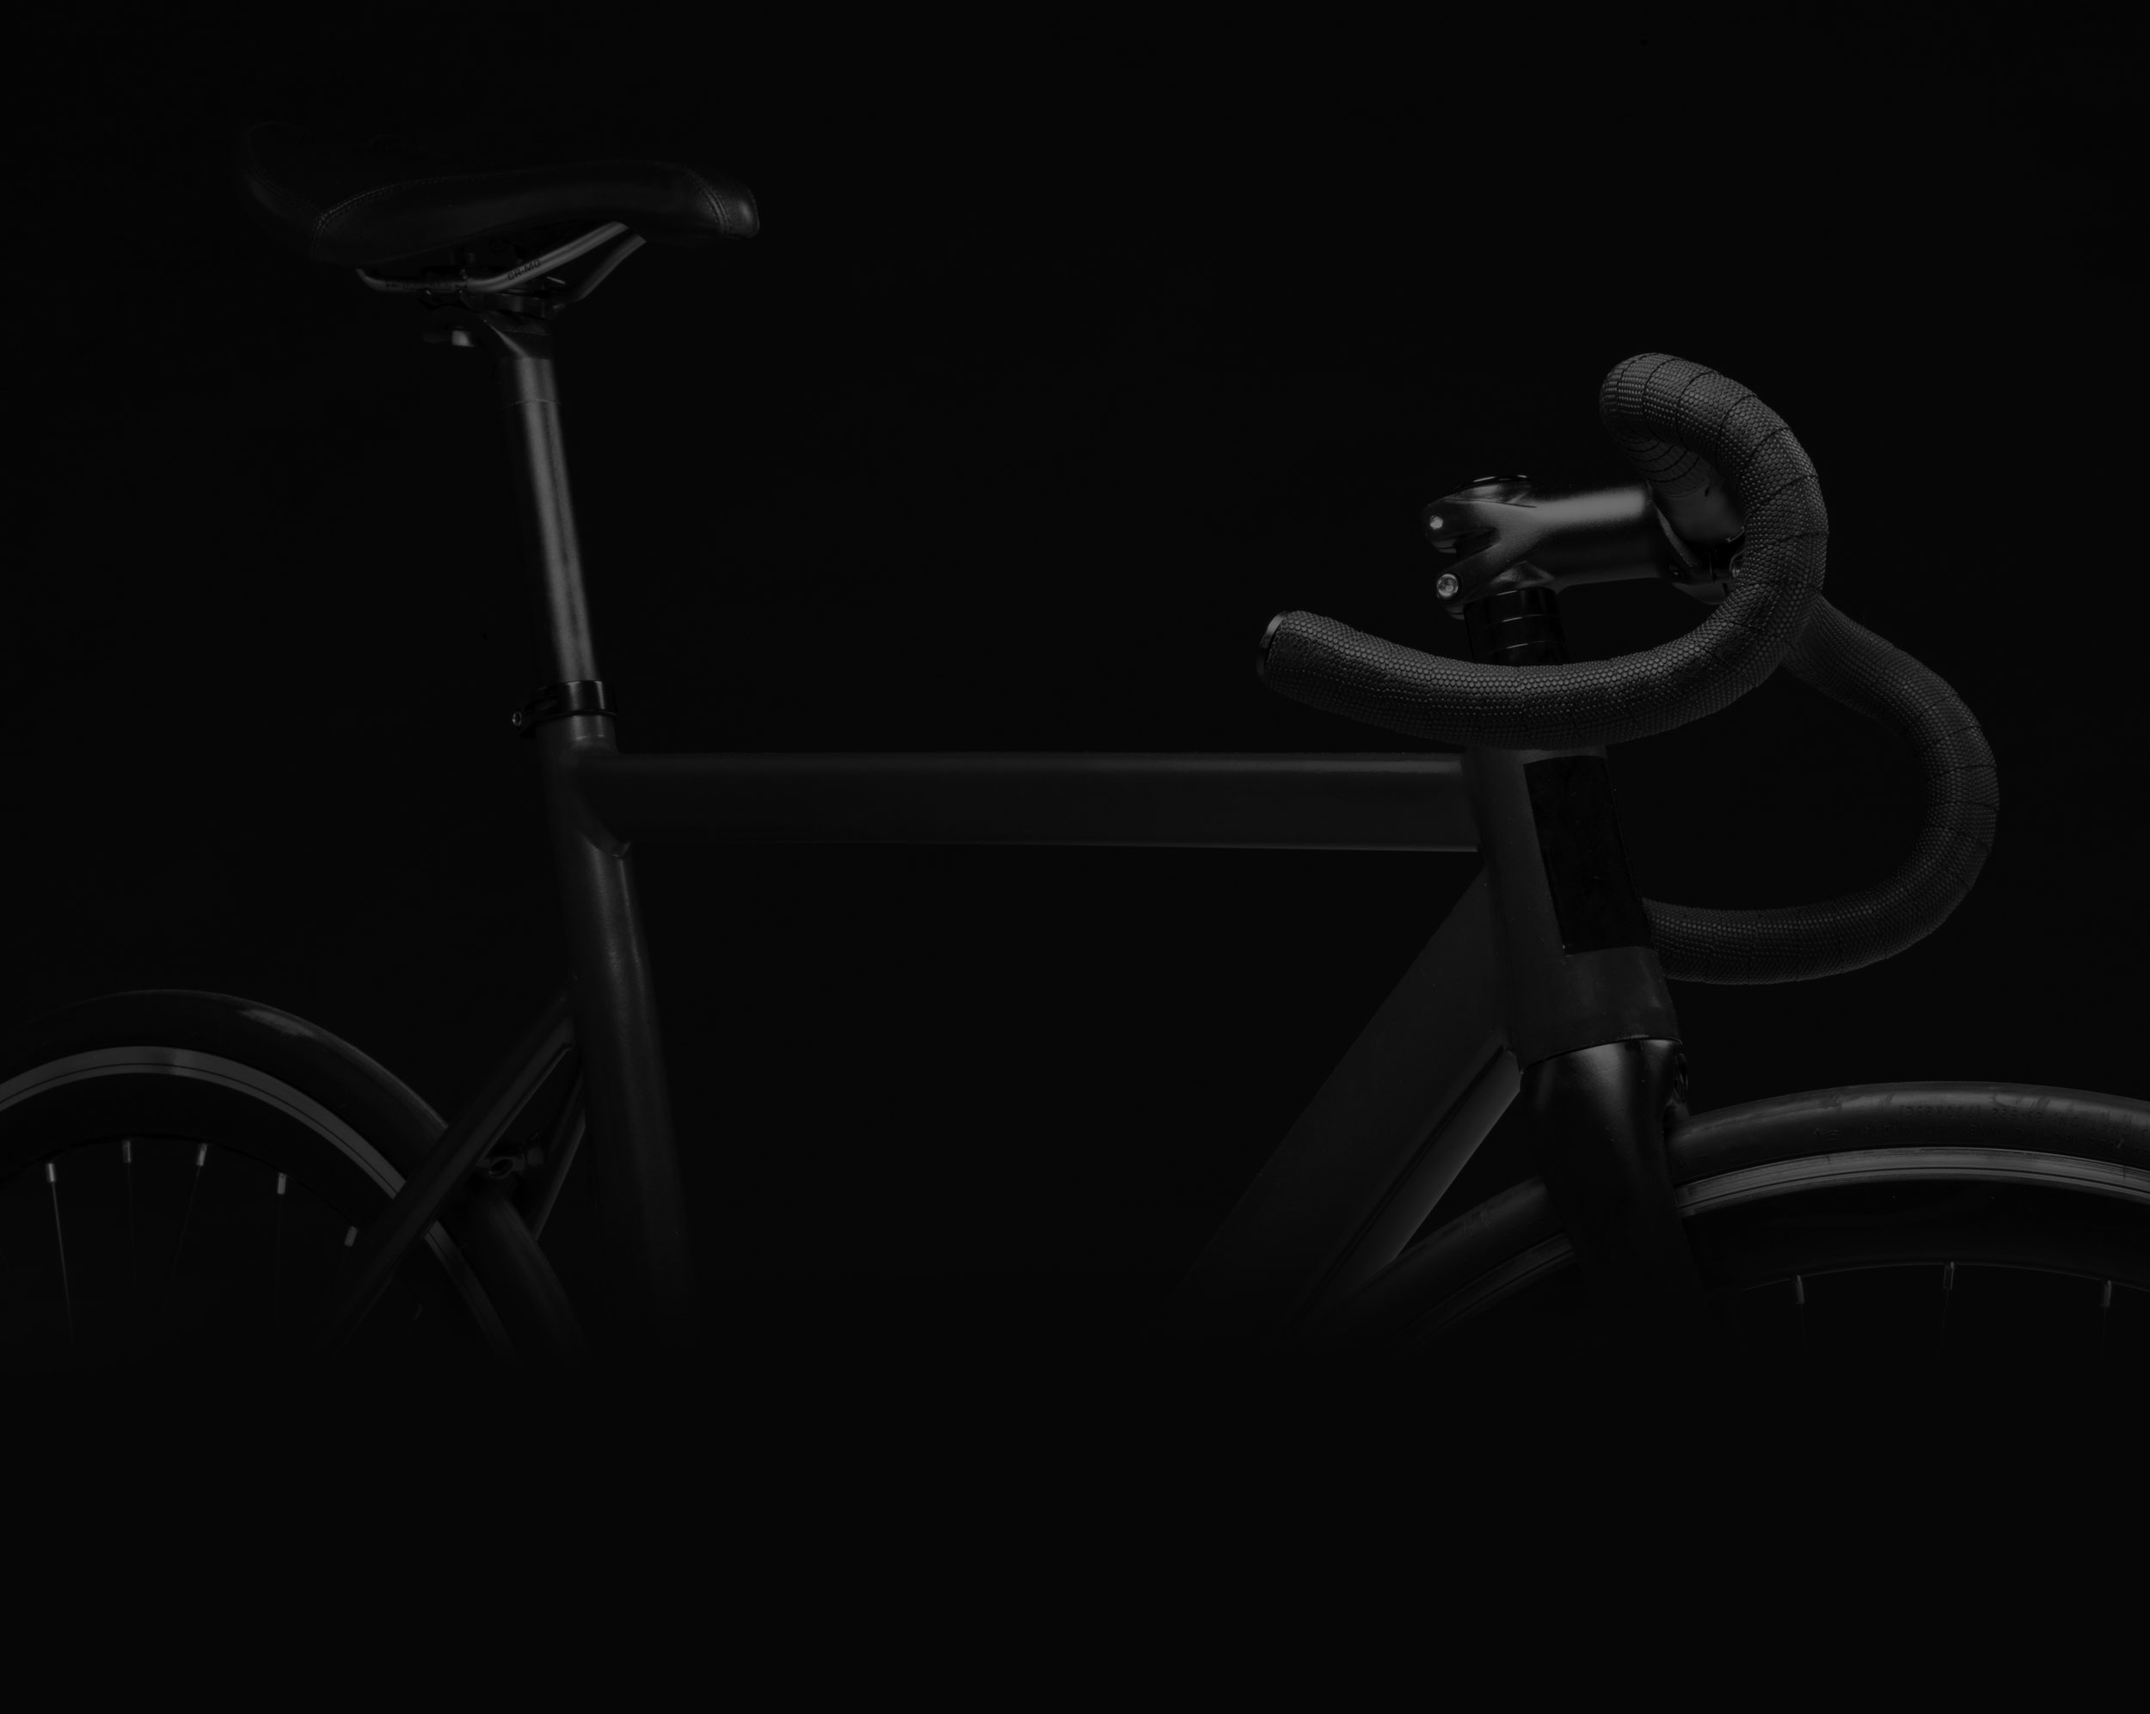
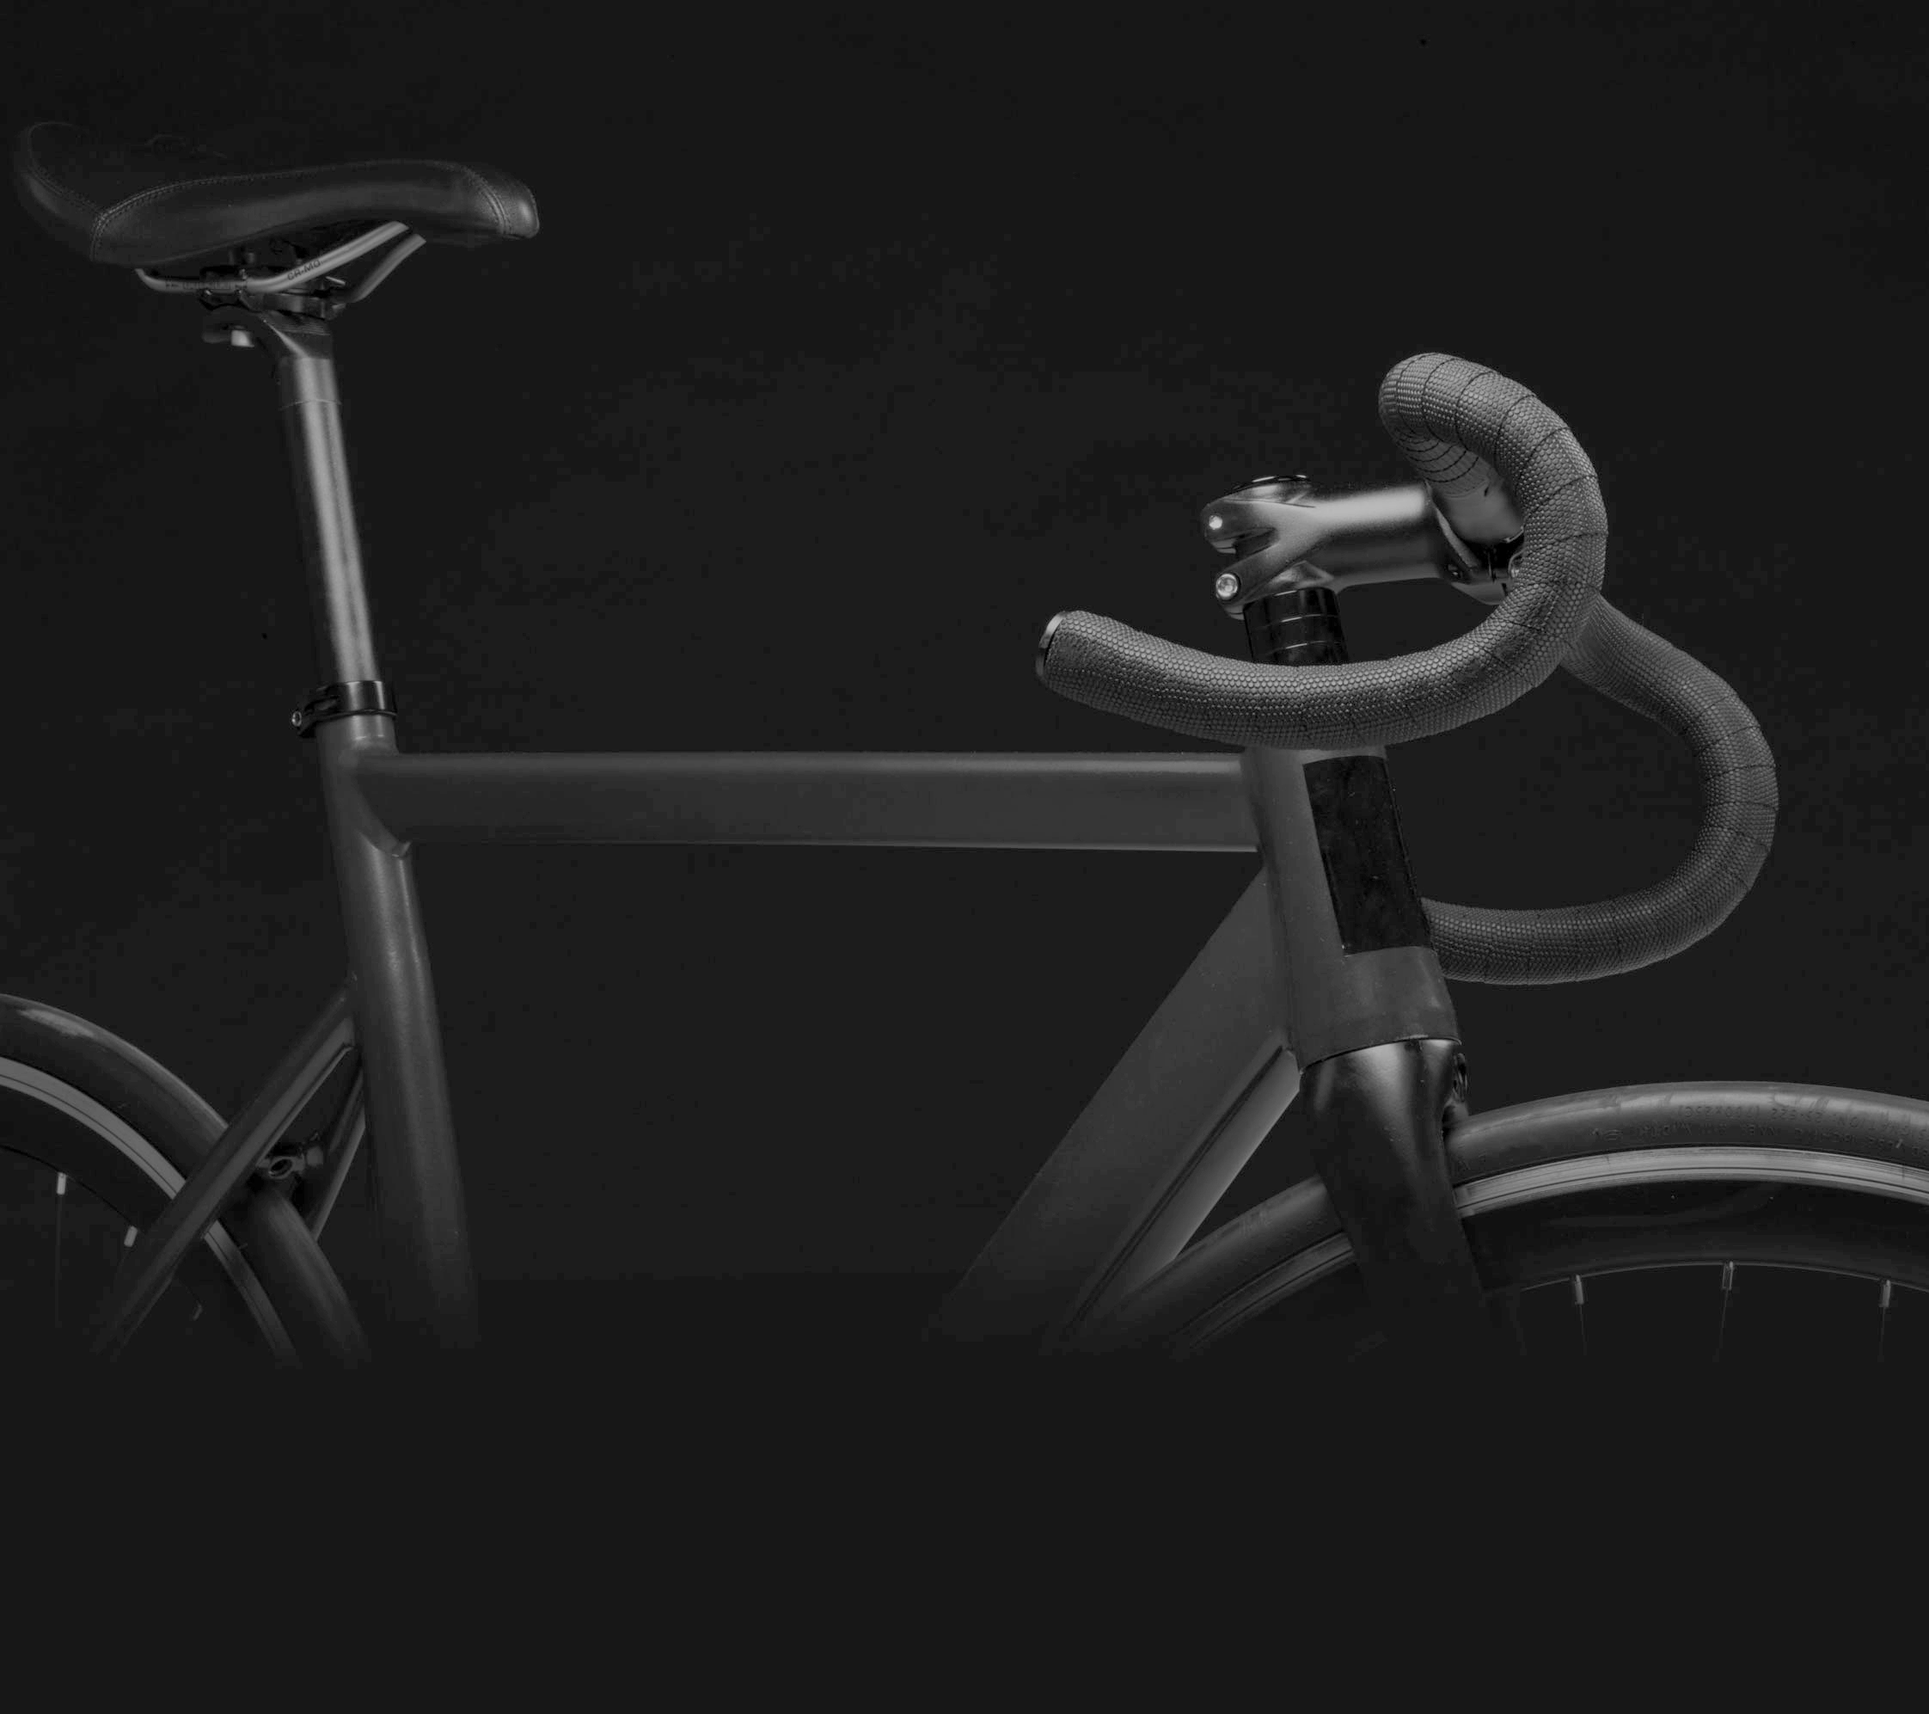
footer y faqs actualizado
footer y faqs actualizado

Changed region(s): [[0.0, 0.0933, 1.0, 0.8088]]

diff --git a/css/faqs.css b/css/faqs.css
@@ -2,20 +2,17 @@
   box-sizing: border-box;
 }
 body {
-  font-family: 'Montserrat', sans-serif;
-  background-image: url('../img/darkbike.jpg');
+  font-family: 'Sunflower', sans-serif;
+  background-image: url('../img/home-bike.jpg');
   background-repeat: no-repeat;
-  background-size: cover;
-  background-color: #060606;
+  background-position: center;
   color: #eaeaea;
 }
-header i{
-  color:white;
-}
 
-i {
-  font-size: 14px;
-  color: #003366;
+a {
+  color: #333333;
+  text-decoration: none;
+  font-size: 16px;
 }
 
 h3 {
@@ -25,8 +22,6 @@ h3 {
 }
 
 h2 {
-  margin-top: 50px:
-  font-family: 'Montserrat', sans-serif;
   color: #ffffff;
   font-size: 24px;
   text-align: center;
@@ -43,40 +38,4 @@ p {
 li {
   color: #333333;
   font-size: 13px;
-}
-footer {
-  display: flex;
-  align-self: center;
-  align-items: baseline;
-  justify-content: space-around;
-  margin-top: 2vw;
-  height: 60px;
-  background-color: rgb(0, 0, 0);
-  width: 100%;
-}
-
-footer a{
-  margin: 30px 0px 30px 0px;
-  text-transform: uppercase;
-  color: white;
-}
-
-.navigation {
-  display: flex;
-  align-self: center;
-  justify-content: space-around;
-  height: 80px;
-	width: 100%;
-  background-color: rgb(0, 0, 0);
-}
-
-.navigation a {
-  margin: 30px 0px 30px 0px;
-  text-transform: uppercase;
-  color: white;
-
-}
-
-footer a:hover{
-	color: white;
 }

diff --git a/css/bar-nav.css b/css/bar-nav.css
@@ -57,21 +57,27 @@ body {
 
 
 /* FOOTER STYLE*/
+div.main-footer {
+  margin: auto!important;
+  display: table!important;
+  position: static;
+  bottom: 0px;
+}
 
 .footer-style {
   overflow: hidden;
   background-color: #000000;
   align-items: center;
   height: 100px;
-  position: fixed;
-  bottom: 0;
+  position: static;
+  bottom: 0px;
+  margin: 0px;
   width: 100%;
-  margin: auto;
   text-align: center;
 }
 
 .main-footer a {
-  display: inline-table;
+  display: inline-block;
   color: #f1f1f1;
   align-items: center;
   padding: 20px;
@@ -95,13 +101,4 @@ body {
   font-size: 10px;
   text-align: center;
   padding-bottom: 30px;
-}
-
-.wrapper {
-  min-height: 100%;
-  margin-bottom: -50px;
-}
-.footer,
-.push {
-  height: 50px;
 }

diff --git a/css/style.css b/css/style.css
@@ -25,7 +25,7 @@
   box-sizing: border-box;
   font-size: 12px;
 }
-.form button {
+input.button {
   font-family: 'Sunflower', sans-serif;
   text-transform: uppercase;
   outline: 0;
@@ -103,11 +103,15 @@ padding-bottom: 30px;
 
 body {
   background-image:url('../img/login_bg.jpg');
-  width: inherit;
-  background-position: center;
   background-repeat: no-repeat;
   background-size: cover;
   font-family: 'Sunflower', sans-serif;
   -webkit-font-smoothing: antialiased;
   -moz-osx-font-smoothing: grayscale;
+}
+
+div.checkbox {
+  align-self: left;
+  display: inline-block;
+  width: auto;
 }

diff --git a/faqs.php b/faqs.php
@@ -2,19 +2,19 @@
 <html lang="en">
   <head>
     <meta charset="utf-8">
-    <meta name="viewport" content="width=device-width, initial-scale=1, shrink-to-fit=no">
-    <link href="https://fonts.googleapis.com/css?family=Montserrat" rel="stylesheet">
+    <meta name="viewport" content="width=device-width, initial-scale=1">
+    <link href="https://fonts.googleapis.com/css?family=Sunflower:300" rel="stylesheet">
     <link rel="stylesheet" href="https://stackpath.bootstrapcdn.com/bootstrap/4.1.1/css/bootstrap.min.css" integrity="sha384-WskhaSGFgHYWDcbwN70/dfYBj47jz9qbsMId/iRN3ewGhXQFZCSftd1LZCfmhktB" crossorigin="anonymous">
     <link rel="stylesheet" href="https://use.fontawesome.com/releases/v5.0.13/css/all.css" integrity="sha384-DNOHZ68U8hZfKXOrtjWvjxusGo9WQnrNx2sqG0tfsghAvtVlRW3tvkXWZh58N9jp" crossorigin="anonymous">
-    <link rel="stylesheet" href="css/master.css">
+    <link rel="stylesheet" href="css/bar-nav.css">
+    <link rel="stylesheet" href="css/faqs.css">
     <title>FAQs</title>
   </head>
   <body>
     <header>
-      
-      <?php include_once('navigation.php'); ?>
 
-    </header>
+      <?php include_once('navigation.php') ?>
+      </header>
     <div class="container-fluid">
       <div class="row">
         <div class="container">
@@ -24,7 +24,7 @@
                       <div class="card ">
                           <div class="card-header">
                               <h4 class="card-header">
-                                  <a class="accordion-toggle" data-toggle="collapse" data-parent="#accordion" href="#collapseOne"><i>¿Cuánto tiempo llevará construir mi bicicleta?</i></a>
+                                  <a class="accordion-toggle" data-toggle="collapse" data-parent="#accordion" href="#collapseOne">¿Cuánto tiempo llevará construir mi bicicleta?</a>
                               </h4>
                           </div>
                           <div id="collapseOne" class="panel-collapse collapse in">
@@ -36,7 +36,7 @@
                       <div class="card ">
                           <div class="card-header">
                               <h4 class="card-header">
-                                  <a class="accordion-toggle collapsed" data-toggle="collapse" data-parent="#accordion" href="#collapseTen"><i>Si les envío mi marco, ¿puedes construirme una bicicleta?</i></a>
+                                  <a class="accordion-toggle collapsed" data-toggle="collapse" data-parent="#accordion" href="#collapseTen">Si les envío mi marco, ¿puedes construirme una bicicleta?</a>
                               </h4>
                           </div>
                           <div id="collapseTen" class="panel-collapse collapse">
@@ -48,7 +48,7 @@
                       <div class="card ">
                           <div class="card-header">
                               <h4 class="card-header">
-                                  <a class="accordion-toggle collapsed" data-toggle="collapse" data-parent="#accordion" href="#collapseEleven"><i>¿Puedo poner un cesto en mi bicicleta?</i></a>
+                                  <a class="accordion-toggle collapsed" data-toggle="collapse" data-parent="#accordion" href="#collapseEleven">¿Puedo poner un cesto en mi bicicleta?</a>
                               </h4>
                           </div>
                           <div id="collapseEleven" class="panel-collapse collapse">
@@ -60,7 +60,7 @@
                       <div class="card ">
                           <div class="card-header">
                               <h4 class="card-header">
-                                  <a class="accordion-toggle collapsed" data-toggle="collapse" data-parent="#accordion" href="#collapseTwo"><i>Tengo mi propio juego de ruedas / sillín /  de una bicicleta vieja, ¿puedes construirme una bicicleta pero usar mis piezas existentes?</i></a>
+                                  <a class="accordion-toggle collapsed" data-toggle="collapse" data-parent="#accordion" href="#collapseTwo">Tengo mi propio juego de ruedas / sillín /  de una bicicleta vieja, ¿puedes construirme una bicicleta pero usar mis piezas existentes?</a>
                               </h4>
                           </div>
                           <div id="collapseTwo" class="panel-collapse collapse">
@@ -71,7 +71,7 @@
                       <div class="card ">
                           <div class="card-header">
                               <h4 class="card-header">
-                                  <a class="accordion-toggle collapsed" data-toggle="collapse" data-parent="#accordion" href="#collapseThree"><i>¿Dónde están hechas las bicicletas?</i></a>
+                                  <a class="accordion-toggle collapsed" data-toggle="collapse" data-parent="#accordion" href="#collapseThree">¿Dónde están hechas las bicicletas?</a>
                               </h4>
                           </div>
                           <div id="collapseThree" class="panel-collapse collapse">
@@ -84,7 +84,7 @@
                       <div class="card ">
                           <div class="card-header">
                               <h4 class="card-header">
-                                  <a class="accordion-toggle collapsed" data-toggle="collapse" data-parent="#accordion" href="#collapseFive"><i>¿Que mantenimiento tendré que hacerle a mi bicicleta?</i></a>
+                                  <a class="accordion-toggle collapsed" data-toggle="collapse" data-parent="#accordion" href="#collapseFive">¿Que mantenimiento tendré que hacerle a mi bicicleta?</a>
                               </h4>
                           </div>
                           <div id="collapseFive" class="panel-collapse collapse">
@@ -98,7 +98,7 @@
                       <div class="card ">
                           <div class="card-header">
                               <h4 class="card-header">
-                                  <a class="accordion-toggle collapsed" data-toggle="collapse" data-parent="#accordion" href="#collapseSix"><i>¿Existe un límite de peso para las bicicletas?</i></a>
+                                  <a class="accordion-toggle collapsed" data-toggle="collapse" data-parent="#accordion" href="#collapseSix">¿Existe un límite de peso para las bicicletas?</a>
                               </h4>
                           </div>
                           <div id="collapseSix" class="panel-collapse collapse">
@@ -112,7 +112,7 @@
                       <div class="card ">
                           <div class="card-header">
                               <h4 class="card-header">
-                                  <a class="accordion-toggle collapsed" data-toggle="collapse" data-parent="#accordion" href="#collapseFour"><i>¿Qué método de pago puedo elegir?</i></a>
+                                  <a class="accordion-toggle collapsed" data-toggle="collapse" data-parent="#accordion" href="#collapseFour">¿Qué método de pago puedo elegir?</a>
                               </h4>
                           </div>
                           <div id="collapseFour" class="panel-collapse collapse">
@@ -129,6 +129,8 @@
                       </div>
             </div>
         </div>
+        <br>
+        <br>
       </div>
       <?php include_once('footer.php'); ?>
     <script src="https://code.jquery.com/jquery-3.3.1.slim.min.js" integrity="sha384-q8i/X+965DzO0rT7abK41JStQIAqVgRVzpbzo5smXKp4YfRvH+8abtTE1Pi6jizo" crossorigin="anonymous"></script>

diff --git a/login.php b/login.php
@@ -11,7 +11,7 @@ if ($_POST) {
 
     $errores = validarLogin($_POST);
 
-    if (!$errores) { 
+    if (!$errores) {
 
         $errores = loguear($_POST);
 
@@ -30,9 +30,8 @@ if ($_POST) {
     <meta charset="utf-8">
     <meta name="viewport" content="width=device-width, initial-scale=1, shrink-to-fit=no">
     <link href="https://fonts.googleapis.com/css?family=Sunflower:300" rel="stylesheet">
-    <link rel="stylesheet" href="css/master.css">
     <link rel="stylesheet" href="css/style.css">
-    
+
     <title>Login</title>
   </head>
   <body>
@@ -48,7 +47,7 @@ if ($_POST) {
                     <div ><strong>Error!</strong></div>
                     <ul>
                         <?php
-                        
+
                         foreach($errores as $error) {
                         ?>
                             <li><?php echo $error ?></li>
@@ -62,13 +61,13 @@ if ($_POST) {
 
                 <input type="password" class="form-control" id="contrasena" name="contrasena" placeholder="Contraseña">
 
-        
+
         <div class="checkbox">
             <label>
                 <input type="checkbox" id="chk-recordarme" name="recordarme"> <p class="message"> Recordarme en este equipo </p>
             </label>
         </div>
-        
+
         <input type="submit" class="button" value="ENTRAR" />
         <p class="message">No estás registrado? <a href="registro.php">Registrarse</a></p>
     </form>

diff --git a/footer.php b/footer.php
@@ -1,8 +1,7 @@
 <link rel="stylesheet" href="css/bar-nav.css">
 <body>
-  <div class="wrapper">
-    <div class="footer-style">
-        <div class="main-footer">
+    <div class="footer-style" style= "position:static; bottom: 0px; margin: 0px;">
+        <div class="main-footer" style= "display: table; margin: auto;">
           <a href="#">Tienda</a>
           <a href="#">Support</a>
           <a href="faqs.php">FAQs</a>
@@ -11,7 +10,4 @@
         </div>
             <div class="small-text">BICLA 2018. Todos los Derechos Reservados.</div>
     </div>
-    <div class="push"></div>
-  </div>
-  <footer class="footer"></footer>
 </body>
